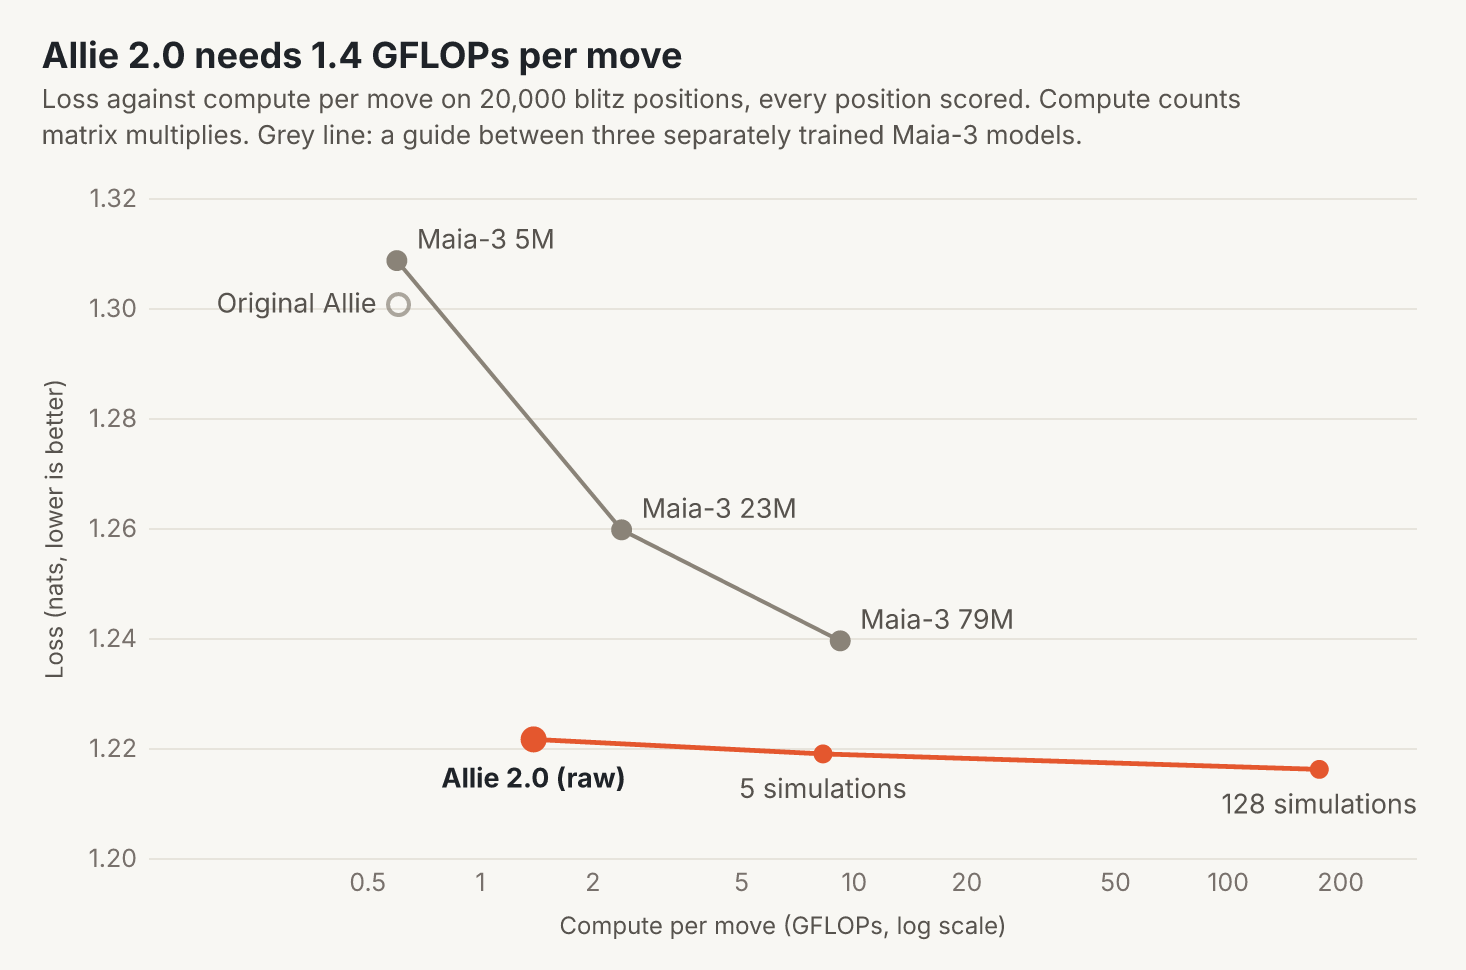
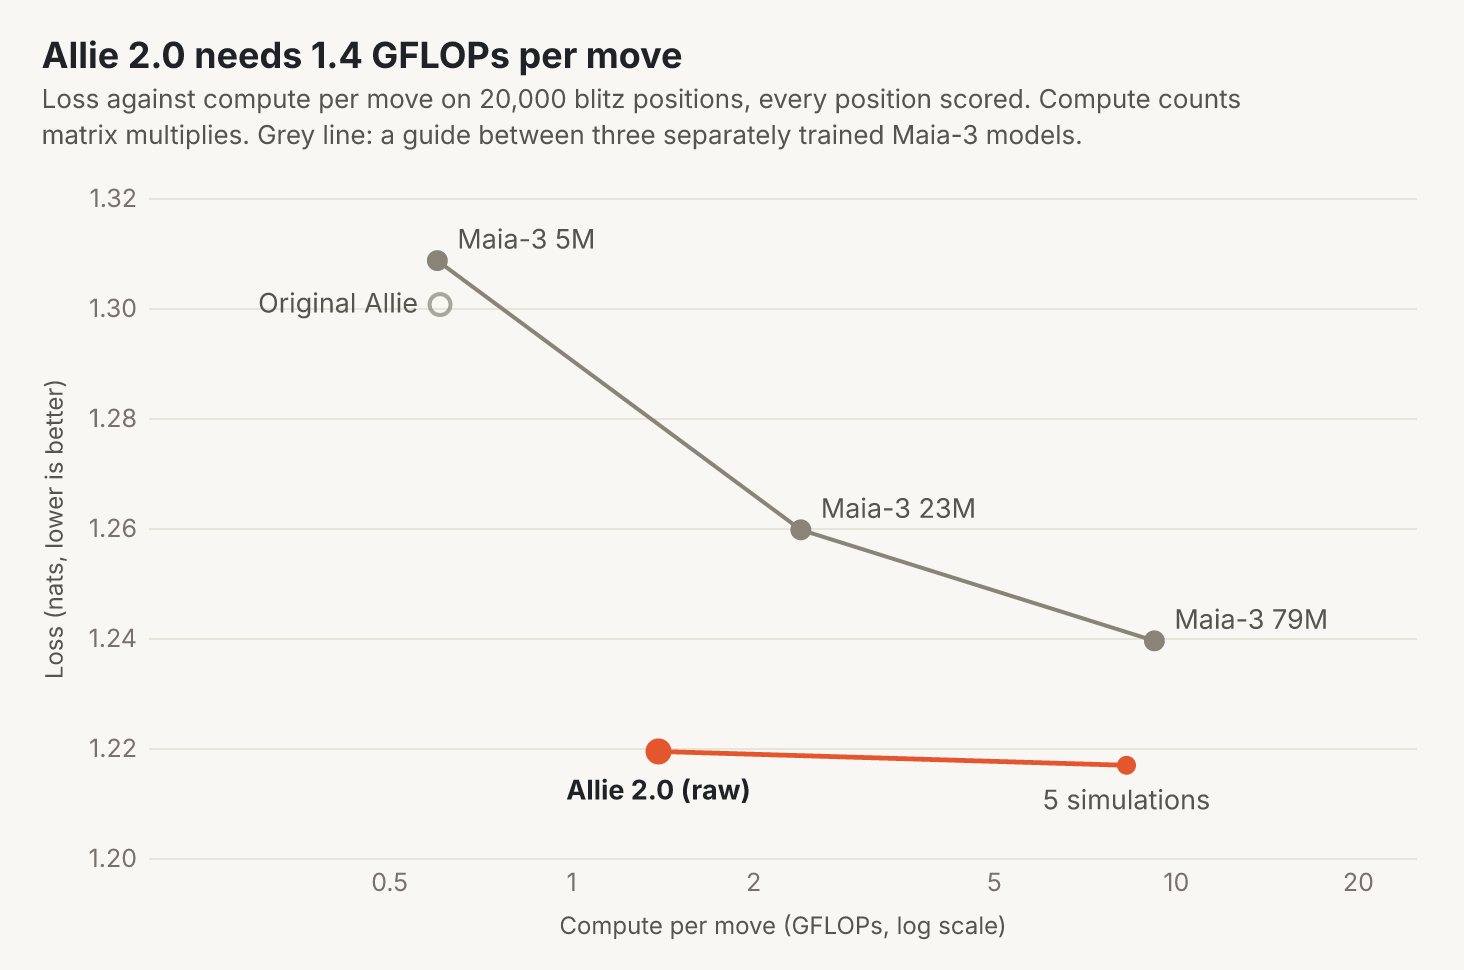
docs: comparison results and figures on the annealed model
pareto (raw and 5 simulations; 128 ran only before the second anneal and stays in details), maia's protocol,
versatility and rating plot ann-all-p05-t1907; readme and details quote its slices, rating bins and search. new score
files: maia3-bench formats/ and rating/ scores of ann-all-p05-t1907. eval.maia3.report takes NAME SCORES and
plot_rating an output stem, so the annealed aggregates sit beside the big run's; the search report knows tag ann2.
aggregate.compare draws each interval from its own generator, so the protocol table and figure agree whichever
models they include

Claude-Session: https://claude.ai/code/session_018xmYCGmjSdX1zRhfrE8fLj

diff --git a/docs/make_figures.py b/docs/make_figures.py
@@ -592,23 +592,19 @@ def gflops(name):
 
 def search_index(n):
     """Benchmark positions the search ran on (legal.npz order), as run.py drew them."""
-    files = sorted((SEARCH / "bigrun/legal").glob("[0-9]*.npz"))
+    files = sorted((SEARCH / "ann2/legal").glob("[0-9]*.npz"))
     return np.concatenate([np.load(f)["index"] for f in files])[:n]
 
 
 def pareto():
     """Legal-move CE against GFLOPs per move, on the 20,000 benchmark positions that search ran on."""
-    rep = jload(SEARCH / "report-bigrun.json")
+    rep = jload(SEARCH / "report-ann2.json")
     p = rep["points"]
     pts = [
         dict(fam="maia", g=p[f"maia/{m}"]["gflops"], v=p[f"maia/{m}"]["ce"], t=name)
         for m, name in MAIA.items()
     ]
-    for k, t in (
-        ("frozen/legal", "Allie 2.0 (raw)"),
-        ("devcal/5", "5 simulations"),
-        ("devcal/128", "128 simulations"),
-    ):
+    for k, t in (("frozen/legal", "Allie 2.0 (raw)"), ("devcal/5", "5 simulations")):
         pts.append(dict(fam="allie", g=p[k]["gflops"], v=p[k]["ce"], t=t))
     ce = previous("allie1-medium", "bench")
     if ce is not None:
@@ -620,8 +616,8 @@ def pareto():
                 t="Original Allie",
             )
         )
-    x = alt.X("g:Q", scale=alt.Scale(type="log", domain=[0.13, 320], nice=False), title="Compute per move (GFLOPs, log scale)",
-              axis=alt.Axis(values=[0.5, 1, 2, 5, 10, 20, 50, 100, 200], grid=False, format="~g"))  # fmt: skip
+    x = alt.X("g:Q", scale=alt.Scale(type="log", domain=[0.2, 25], nice=False), title="Compute per move (GFLOPs, log scale)",
+              axis=alt.Axis(values=[0.5, 1, 2, 5, 10, 20], grid=False, format="~g"))  # fmt: skip
     y = alt.Y("v:Q", scale=alt.Scale(domain=[1.20, 1.32], nice=False, zero=False), title="Loss (nats, lower is better)",
               axis=alt.Axis(values=[1.20, 1.22, 1.24, 1.26, 1.28, 1.30, 1.32], grid=True, format=".2f"))  # fmt: skip
     b = values(pts)
@@ -662,7 +658,7 @@ def protocol_scores():
 
     paths = {name: DATA / f"maia3-bench/scores/{m}.npz" for m, name in MAIA.items()}
     paths["Original Allie"] = ORIGINAL / "bench/allie1-medium.npz"
-    paths["Allie 2.0"] = DATA / "maia3-bench/bigrun-v2/step-00143051/scores.npz"
+    paths["Allie 2.0"] = DATA / f"distill-v2/scores/{ANN}.npz"
     return {k: read(p) for k, p in paths.items() if Path(p).exists()}
 
 
@@ -717,8 +713,8 @@ def protocol():
 def versatility():
     """Allie 2.0's loss minus Maia-3 79M's by time control (bullet, rapid and classical from the formats sample,
     5,000 positions per rating band; blitz from the benchmark) and, in blitz, by time left on the mover's clock;
-    paired 95% game-bootstrap intervals (allie.eval.maia3.report's aggregate-bigrun.json)."""
-    sl = jload(X / "maia3-bench/aggregate-bigrun.json")["slices"]
+    paired 95% game-bootstrap intervals (allie.eval.maia3.report's aggregate-NAME.json)."""
+    sl = jload(X / f"maia3-bench/aggregate-{ANN}.json")["slices"]
     clocks = ["Under 10 s", "10–30 s", "30–60 s", "1–2 min", "Over 2 min"]
     groups = (
         ("By time control", ["bullet", "blitz", "rapid", "classical"], [sl["format"][f] for f in ("bullet", "blitz", "rapid", "classical")]),
@@ -744,13 +740,13 @@ def versatility():
 def rating():
     """Legal-move CE minus Maia-3 79M's per 100-point bin of game rating, on every scored blitz move."""
     rows = [
-        r for r in jload(X / "bigrun-progress/acc-by-game-rating-final.json") if r["n"]
+        r for r in jload(X / f"bigrun-progress/acc-by-game-rating-{ANN}.json") if r["n"]
     ]
     x_ = [float(np.mean([float(v) for v in r["bin"].split("-")])) for r in rows]
     ref = np.array([r["models"]["maia3-79m"]["ce"][0] for r in rows])
     pts = []
     for i, r in enumerate(rows):
-        d = r["models"]["bigrun-143051"]["d_ce_79m"]
+        d = r["models"][ANN]["d_ce_79m"]
         pts.append(dict(x=x_[i], s="Allie 2.0", d=d[0], lo=d[1], hi=d[2]))
         pts += [
             dict(x=x_[i], s=MAIA[m], d=r["models"][m]["ce"][0] - ref[i])
@@ -814,7 +810,7 @@ def rating():
         "Loss minus Maia-3 79M's by game rating, on all blitz positions of the main evaluation. Below zero is",
         "better. Band: Allie 2.0's 95% interval; the end bins hold few games."))  # fmt: skip
     save(chart, "rating")
-    d = np.array([r["models"]["bigrun-143051"]["d_ce_79m"] for r in rows])
+    d = np.array([r["models"][ANN]["d_ce_79m"] for r in rows])
     print(
         f"  {len(rows)} bins; CE above 79M in {[r['bin'] for r, v in zip(rows, d[:, 0]) if v > 0]}; interval below 0 in {(d[:, 2] < 0).sum()}"
     )

diff --git a/src/allie/eval/maia3/report.py b/src/allie/eval/maia3/report.py
@@ -3,12 +3,14 @@ the best 1e18 sweep MoE, on the benchmark's 80,000 blitz positions (eval.maia3.a
 bootstrap) and on the by-format companion sample (eval.maia3.formats: 5,000 per bullet / rapid / classical
 cell). Slices: Elo band, 200-Elo bin of the mover, blitz time control, game format, mover's clock, ply.
 
-usage: eval.maia3.report STEP   (reads bigrun-v2/step-STEP/scores.npz and formats/scores/bigrun-STEP.npz)
-Writes tables-bigrun.md and aggregate-bigrun.json.
+usage: eval.maia3.report STEP          (bigrun-v2/step-STEP/scores.npz, formats/scores/bigrun-STEP.npz)
+       eval.maia3.report NAME SCORES   (SCORES: NAME's benchmark scores.npz, beside its .json; formats/scores/NAME.npz)
+Writes tables-bigrun.md and aggregate-bigrun.json, or tables-NAME.md and aggregate-NAME.json.
 """
 
 import json
 import sys
+from pathlib import Path
 
 import numpy as np
 
@@ -206,7 +208,12 @@ def sliced(
 
 
 def main():
-    step = int(sys.argv[1])
+    if len(sys.argv) > 2:
+        name, bench, out_name = sys.argv[1], Path(sys.argv[2]), sys.argv[1]
+    else:
+        step = int(sys.argv[1])
+        name, out_name = f"bigrun-{step}", "bigrun"
+        bench = DATA / "bigrun-v2" / f"step-{step:08d}" / "scores.npz"
     rng = np.random.default_rng(7)
     s, masks, cached = load()
     keep = np.load(DATA / "games.npz")["keep"]
@@ -214,15 +221,14 @@ def main():
         m: dict(ce=cached[m]["ce"].astype(float), top1=cached[m]["top1"].astype(float))
         for m in ORDER[:-1]
     }
-    sc["bigrun"] = scores(DATA / "bigrun-v2" / f"step-{step:08d}" / "scores.npz", keep)
+    sc["bigrun"] = scores(bench, keep)
     fl = json.loads((HERE / "flops.json").read_text())
     GFLOPS.update({m: fl[m]["flops_per_move"] / 1e9 for m in ORDER[:3]})
-    info = json.loads(
-        (DATA / "bigrun-v2" / f"step-{step:08d}" / "scores.json").read_text()
-    )
+    info = json.loads(bench.with_suffix(".json").read_text())
+    step = info["step"]
     out = dict(step=step, views={}, slices={}, model_sha256=info["model_sha256"])
     lines = [
-        f"Big run step {step:,} ({info['tokens'] / 1e9:.1f}B tokens), checkpoint sha256 {info['model_sha256'][:12]}.",
+        f"{name}: step {step:,} ({info['tokens'] / 1e9:.1f}B tokens), checkpoint sha256 {info['model_sha256'][:12]}.",
         "",
     ]
     overall(s, masks, sc, rng, out, lines)
@@ -280,7 +286,7 @@ def main():
         lines,
     )
 
-    f = FMT / "scores" / f"bigrun-{step}.npz"
+    f = FMT / "scores" / f"{name}.npz"
     if f.exists() and all((FMT / "scores" / f"{m}.npz").exists() for m in ORDER[:-1]):
         with np.load(FMT / "games.npz") as z:
             fs = z["sel"][z["keep"]]
@@ -344,8 +350,8 @@ def main():
             )
         lines.append("")
 
-    (HERE / "aggregate-bigrun.json").write_text(json.dumps(out, indent=1) + "\n")
-    (HERE / "tables-bigrun.md").write_text("\n".join(lines) + "\n")
+    (HERE / f"aggregate-{out_name}.json").write_text(json.dumps(out, indent=1) + "\n")
+    (HERE / f"tables-{out_name}.md").write_text("\n".join(lines) + "\n")
     print("\n".join(lines))
 
 

diff --git a/src/allie/eval/maia3/plot_rating.py b/src/allie/eval/maia3/plot_rating.py
@@ -7,7 +7,8 @@ The golden eval samples each mover-Elo band at its own rate, so every position i
 cell's population / sampled moves (strat-eval-v1 manifest): within a bin the mix of movers is then
 the natural July 2026 one. Intervals: 95%, 2,000 bootstrap draws of whole games.
 
-usage: plot_rating.py BIGRUN_SCORES_NAME   (e.g. bigrun-143051, a file in rating/scores/)
+usage: plot_rating.py SCORES_NAME [OUT]   (e.g. bigrun-143051, a file in rating/scores/; OUT: the outputs' stem,
+default acc-by-game-rating-final)
 """
 
 import json
@@ -54,6 +55,7 @@ def boot(games, w, xs, rng):
 
 def main():
     big = sys.argv[1]
+    stem = sys.argv[2] if len(sys.argv) > 2 else "acc-by-game-rating-final"
     rng = np.random.default_rng(7)
     with np.load(DATA / "rating" / "games.npz") as z:
         sel, meta = z["sel"][z["keep"]], z["meta"]
@@ -62,9 +64,9 @@ def main():
     game = sel[:, 0]
     rating = meta[game, 2:4].mean(1)
     info = json.loads((DATA / "rating" / "scores" / f"{big}.json").read_text())
-    final = info["step"] == 143051
-    tag = "final" if final else f"step {info['step']:,}"
-    models = dict(MODELS) | {big: (f"our big run ({tag})", "#0b0b0b", 3)}
+    tag = "final" if info["step"] == 143051 else f"step {info['step']:,}"
+    name = f"our big run ({tag})" if big.startswith("bigrun-") else big
+    models = dict(MODELS) | {big: (name, "#0b0b0b", 3)}
     sc = {k: scores(k) for k in models}
     rows, centers = [], (EDGES[:-1] + EDGES[1:]) / 2
     for lo, hi in zip(EDGES[:-1], EDGES[1:]):
@@ -129,14 +131,14 @@ def main():
         color=muted, fontsize=9.5, x=0.01, ha="left",
     )  # fmt: skip
     fig.tight_layout(rect=(0, 0, 1, 0.95))
-    fig.savefig(HERE / "acc-by-game-rating-final.png", facecolor=surface)
+    fig.savefig(HERE / f"{stem}.png", facecolor=surface)
 
     f = lambda t, s=100, fmt="{:+.2f}": (
         f"{fmt.format(t[0] * s)} [{fmt.format(t[1] * s)}, {fmt.format(t[2] * s)}]"
     )
     names = list(models)
     lines = [
-        f"Top-1 accuracy % by game rating (big run = {tag}, model sha256 {info['model_sha256'][:12]}); weighted to the natural mover mix. "
+        f"Top-1 accuracy % by game rating ({name}, model sha256 {info['model_sha256'][:12]}); weighted to the natural mover mix. "
         f"Bins with < {MIN_N:,} positions are marked *.",
         "",
         "| game rating | positions | games | " + " | ".join(models[k][0] for k in names)
@@ -152,10 +154,8 @@ def main():
             + " | ".join(f"{mm[k]['acc'][0] * 100:.1f}" for k in names)
             + f" | {f(mm[big]['d_acc_79m'])} | {f(mm[big]['d_ce_79m'], 1, '{:+.4f}')} |"
         )
-    (HERE / "acc-by-game-rating-final.md").write_text("\n".join(lines) + "\n")
-    (HERE / "acc-by-game-rating-final.json").write_text(
-        json.dumps(rows, indent=1) + "\n"
-    )
+    (HERE / f"{stem}.md").write_text("\n".join(lines) + "\n")
+    (HERE / f"{stem}.json").write_text(json.dumps(rows, indent=1) + "\n")
     print("\n".join(lines))
 
 

diff --git a/src/allie/eval/maia3/aggregate.py b/src/allie/eval/maia3/aggregate.py
@@ -36,15 +36,17 @@ def pressure():
 
 def compare(scores, ref="Maia-3 79M", seed=7):
     """Per view: each model's CE and top-1 (%), and its paired differences from ref with 95% game-bootstrap
-    intervals, for scores {name: (legal-move CE, top-1) per benchmark position}."""
+    intervals, for scores {name: (legal-move CE, top-1) per benchmark position}. Every interval draws from its own
+    generator, so it does not depend on which other models are compared."""
     s, masks = views()
     scores = {k: (np.asarray(ce, float), np.asarray(t, float)) for k, (ce, t) in scores.items()}
     out = {}
     for view, m in masks.items():
-        rng, g, (ce0, t0) = np.random.default_rng(seed), s[m, 0], scores[ref]
+        g, (ce0, t0) = s[m, 0], scores[ref]
         out[view] = dict(positions=int(m.sum()))
         for name, (ce, t) in scores.items():
-            d = {} if name == ref else dict(d_ce=stats(g, ce[m] - ce0[m], rng), d_top1=stats(g, 100 * (t[m] - t0[m]), rng))
+            d = {} if name == ref else dict(d_ce=ce[m] - ce0[m], d_top1=100 * (t[m] - t0[m]))
+            d = {k: stats(g, x, np.random.default_rng(seed)) for k, x in d.items()}
             out[view][name] = dict(ce=float(ce[m].mean()), top1=float(100 * t[m].mean()), **d)
     return out
 

diff --git a/analysis/search-bench/report.py b/analysis/search-bench/report.py
@@ -31,12 +31,14 @@ MODEL = {
     "sw-moe-s42": ("sweep MoE 1e18", 18, 896),
     "bigrun132k": ("big run step 132K", 24, 1536),
     "bigrun": ("big run", 24, 1536),
+    "ann2": ("annealed big run", 24, 1536),
 }
 # Allie 2.0: 2 x active matmul parameters per move; its raw reference is eval.maia3.score_moe on the same checkpoint
-FLOPS |= {t: dict(flops_per_move=1389084288) for t in ("bigrun132k", "bigrun")}
+FLOPS |= {t: dict(flops_per_move=1389084288) for t in ("bigrun132k", "bigrun", "ann2")}
 RAW = {
     "bigrun132k": DATA / "bigrun-v2/step-00132096/scores.npz",
     "bigrun": DATA / "bigrun-v2/step-00143051/scores.npz",
+    "ann2": paths.DATA / "distill-v2/scores/ann-all-p05-t1907.npz",
 }
 KEYS = ("index", "ce", "top1", "nodes")
 
@@ -236,8 +238,9 @@ def plot(results):
         "sw-dense-s42": "#1baf7a",
         "bigrun132k": "#4a3aa7",
         "bigrun": "#4a3aa7",
+        "ann2": "#4a3aa7",
     }
-    big = results[0][0].startswith("bigrun")
+    big = MODEL[results[0][0]][1] == 24
     fig, axes = plt.subplots(1, 2, figsize=(12, 5.2), facecolor=surface)
     n = min(r[2] for r in results)
     # every tag is a prefix of run.py's one fixed order, so equal n means identical positions

diff --git a/docs/DETAILS.md b/docs/DETAILS.md
@@ -27,12 +27,12 @@ Maia's protocol (56,599 positions):
 
 | Model | Loss (nats) | Top choice correct (%) | Loss vs Maia-3 79M | Top choice vs Maia-3 79M (points) |
 |---|---:|---:|---:|---:|
-| Maia-3 5M | 1.2933 | 57.04 | +0.0753 [+0.0715, +0.0791] | −2.02 [−2.26, −1.77] |
-| Maia-3 23M | 1.2405 | 58.56 | +0.0225 [+0.0204, +0.0247] | −0.50 [−0.70, −0.30] |
+| Maia-3 5M | 1.2933 | 57.04 | +0.0753 [+0.0715, +0.0791] | −2.02 [−2.27, −1.75] |
+| Maia-3 23M | 1.2405 | 58.56 | +0.0225 [+0.0203, +0.0248] | −0.50 [−0.72, −0.29] |
 | Maia-3 79M | 1.2180 | 59.06 | | |
-| Original Allie | 1.2883 | 57.09 | +0.0703 [+0.0661, +0.0747] | −1.97 [−2.25, −1.67] |
-| Allie 2.0 | 1.2048 | 59.37 | −0.0132 [−0.0165, −0.0097] | +0.31 [+0.07, +0.56] |
-| Before the second anneal | 1.2075 | 59.32 | −0.0105 [−0.0141, −0.0070] | +0.26 [+0.00, +0.52] |
+| Original Allie | 1.2883 | 57.09 | +0.0703 [+0.0659, +0.0746] | −1.97 [−2.23, −1.69] |
+| Allie 2.0 | 1.2048 | 59.37 | −0.0132 [−0.0166, −0.0100] | +0.31 [+0.06, +0.56] |
+| Before the second anneal | 1.2075 | 59.32 | −0.0105 [−0.0139, −0.0072] | +0.26 [+0.02, +0.52] |
 
 *Brackets are 95% intervals over games, with each model paired with Maia-3 79M on the same positions.*
 
@@ -49,17 +49,17 @@ All 80,000 positions:
 
 ### Where the differences come from
 
-Allie 2.0 before its second anneal, minus Maia-3 79M, on slices of the benchmark. The bullet, rapid and classical rows use 5,000 positions per rating band. The other rows are blitz.
+Allie 2.0 minus Maia-3 79M on slices of the benchmark. The bullet, rapid and classical rows use 5,000 positions per rating band. The other rows are blitz.
 
 | Slice | positions | CE difference | top-1 difference (points) |
 |---|---:|---:|---:|
-| bullet | 20,000 | −0.1412 [−0.1514, −0.1310] | +3.33 [+2.81, +3.83] |
-| rapid | 20,000 | −0.0163 [−0.0222, −0.0102] | +0.53 [+0.11, +0.94] |
-| classical | 20,000 | −0.0208 [−0.0278, −0.0144] | +0.45 [−0.00, +0.90] |
-| mover has under 10 s left | 2,852 | −0.2229 [−0.2627, −0.1823] | +3.47 [+1.88, +4.91] |
-| mover has 60-120 s left | 15,719 | +0.0107 [+0.0034, +0.0182] | −0.53 [−1.06, −0.02] |
-| plies 40-59 | 15,997 | +0.0071 [+0.0003, +0.0137] | −0.09 [−0.62, +0.42] |
-| Maia-3's protocol (below) | 56,599 | −0.0105 [−0.0141, −0.0070] | +0.26 [+0.00, +0.52] |
+| bullet | 20,000 | −0.1448 [−0.1552, −0.1343] | +3.36 [+2.84, +3.86] |
+| rapid | 20,000 | −0.0191 [−0.0252, −0.0131] | +0.74 [+0.29, +1.16] |
+| classical | 20,000 | −0.0227 [−0.0292, −0.0162] | +0.56 [+0.11, +1.01] |
+| mover has under 10 s left | 2,852 | −0.2240 [−0.2658, −0.1842] | +3.47 [+2.00, +5.10] |
+| mover has 60-120 s left | 15,719 | +0.0088 [+0.0014, +0.0160] | −0.55 [−1.04, −0.03] |
+| plies 40-59 | 15,997 | +0.0053 [−0.0017, +0.0120] | −0.17 [−0.69, +0.32] |
+| Maia-3's protocol (below) | 56,599 | −0.0132 [−0.0166, −0.0100] | +0.31 [+0.06, +0.56] |
 
 ### Maia-3's protocol
 
@@ -73,13 +73,13 @@ That keeps 56,599 of the 80,000 positions, in 6,089 games. An earlier version of
 
 ![Loss relative to Maia-3 79M by game rating, for Maia-3 5M and 23M, the original Allie and Allie 2.0](figures/rating.png)
 
-*Allie 2.0 before its second anneal. Every position scored, as in the README's compute plot.*
+*Every position scored, as in the README's compute plot.*
 
 The rating plot uses every scored blitz move of the main evaluation: 402,108 positions in 6,247 games. They are reweighted to the natural mix of players and grouped by game rating in 100-point bins.
 
-Before its second anneal, Allie 2.0's whole CE interval is below Maia-3 79M's in 19 of 23 bins. The exceptions are 600-700, 700-800, 1000-1100 and 2800-2900. Only the last, with 7 games, has a higher point estimate.
+Allie 2.0's whole CE interval is below Maia-3 79M's in 20 of 23 bins. The exceptions are 600-700, 700-800 and 2800-2900. Only the last, with 7 games, has a higher point estimate.
 
-Its accuracy is lower in two bins, both within noise: 800-900 by 0.12 points and 2800-2900 by 0.33 points. The bins at both ends hold few games.
+Its accuracy is lower in one bin, 2800-2900, by 0.33 points, within noise. It ties in 800-900. The bins at both ends hold few games.
 
 ### The original Allie
 
@@ -101,15 +101,17 @@ The search runs over the model's own predictions of the move, the outcome and th
 
 Each search budget's output is calibrated on separate July 2026 games, which do not overlap the benchmark.
 
-| Before the second anneal | GFLOPs per move | CE | CE gain | top-1 gain (points) |
+| Model | GFLOPs per move | CE | CE gain | top-1 gain (points) |
 |---|---:|---:|---:|---:|
-| raw policy | 1.40 | 1.2216 | | |
-| 5 simulations | 8.30 | 1.2189 | +0.0026 [+0.0014, +0.0039] | +0.15 [−0.08, +0.37] |
-| 128 simulations | 176 | 1.2161 | +0.0055 [+0.0038, +0.0070] | +0.18 [−0.04, +0.40] |
+| Allie 2.0, raw policy | 1.40 | 1.2194 | | |
+| Allie 2.0, 5 simulations | 8.30 | 1.2169 | +0.0025 [+0.0013, +0.0037] | +0.10 [−0.10, +0.31] |
+| Before the second anneal, raw policy | 1.40 | 1.2216 | | |
+| Before the second anneal, 5 simulations | 8.30 | 1.2189 | +0.0026 [+0.0014, +0.0039] | +0.15 [−0.08, +0.37] |
+| Before the second anneal, 128 simulations | 176 | 1.2161 | +0.0055 [+0.0038, +0.0070] | +0.18 [−0.04, +0.40] |
 
-On the same positions, Maia-3 5M, 23M and 79M score 1.3086, 1.2597 and 1.2395. The original Allie scores 1.3006.
+On the same positions, Maia-3 5M, 23M and 79M score 1.3086, 1.2597 and 1.2395. The original Allie scores 1.3006. 128 simulations ran only before the second anneal, so the README's plot leaves them out.
 
-The gain comes from strong players. With 128 simulations it is −0.0001 below 1400 and +0.0014 at 1400-2000. It is +0.0062 at 2000-2400 and +0.0143 at 2400+.
+The gain comes from strong players. Before the anneal, with 128 simulations, it is −0.0001 below 1400 and +0.0014 at 1400-2000. It is +0.0062 at 2000-2400 and +0.0143 at 2400+.
 
 Search helps less as models grow. 128 simulations gain 0.022, 0.019 and 0.013 nats on the scaling sweep's best MoE models, and 0.0055 on the big run's final checkpoint.
 

diff --git a/README.md b/README.md
@@ -98,7 +98,7 @@ Maia-3 trains only on Lichess blitz, so we compare on blitz. We use 80,000 blitz
 
 ![Loss against compute per move for Maia-3, the original Allie, and Allie 2.0 with and without search](docs/figures/pareto.png)
 
-*Orange: Allie 2.0 before its second anneal, alone and with 5 or 128 search simulations per move.*
+*Orange: Allie 2.0 alone and with 5 search simulations per move. More search is in [DETAILS](docs/DETAILS.md#search).*
 
 On all 80,000 positions, Allie 2.0's loss is 1.2030 against 1.2269 for Maia-3 79M. It uses 1.39 GFLOPs per move against 9.23.
 
@@ -113,11 +113,11 @@ On all 80,000 positions, Allie 2.0's loss is 1.2030 against 1.2269 for Maia-3 79
 
 ![Loss and top-1 accuracy minus Maia-3 79M's on Maia's protocol, with 95% intervals](docs/figures/protocol.png)
 
-*Allie 2.0 before its second anneal. Each bar compares a model with Maia-3 79M on the same positions.*
+*Each bar compares a model with Maia-3 79M on the same positions.*
 
-Maia-3's paper skips each game's first 10 plies and every position from the moment a player first has under 30 seconds. On that protocol, Allie 2.0 before its second anneal roughly matches Maia-3 79M.
+Maia-3's paper skips each game's first 10 plies and every position from the moment a player first has under 30 seconds. On that protocol, Allie 2.0 roughly matches Maia-3 79M.
 
-Its loss is 1.2075 against 1.2180. Its top choice is right 59.32% of the time against 59.06%, a gap of 0.26 points that is barely outside noise [0.00, 0.52]. The original Allie scores 1.2883 and 57.09%.
+Its loss is 1.2048 against 1.2180. Its top choice is right 59.37% of the time against 59.06%, a gap of 0.31 points [0.06, 0.56]. The original Allie scores 1.2883 and 57.09%.
 
 ### Beyond blitz
 
@@ -125,7 +125,7 @@ Allie plays beyond blitz: it supports every time control (bullet, blitz, rapid, 
 
 ![Allie 2.0's loss minus Maia-3 79M's by time control and, in blitz, by time left on the clock](docs/figures/versatility.png)
 
-*Allie 2.0 before its second anneal. Bullet, rapid and classical use a separate sample of 20,000 positions each.*
+*Bullet, rapid and classical use a separate sample of 20,000 positions each.*
 
 \*Maia-3 never trained on bullet, rapid or classical games.
 

diff --git a/analysis/README.md b/analysis/README.md
@@ -5,6 +5,6 @@ The scripts behind two results, kept as they ran (they read and write our group 
 - `search-bench/`: tree search on the Maia-3 benchmark positions with the MoE oracle (`run.py`), per-model output
   calibration on a disjoint dev split (`fit.py`, `build_dev.py`), tables and plots (`report.py`, `bigrun.py`,
   `ladder.py`), benchmark positions and fixed-budget search (`adapter.py`). `docs/make_figures.py` reads
-  `report.py bigrun`'s `report-bigrun.json` and `run.py`'s `bigrun/legal/*.npz`.
+  `report.py ann2`'s `report-ann2.json` (Allie 2.0) and `run.py`'s `ann2/legal/*.npz`.
 - `frontier_report.py`: the benchmark tables and cost plot of every scored model against Maia-3 and Allie 2.0
   (`tables.md`, `report.json`, `pareto.png`), including the annealed model's numbers in DETAILS.
